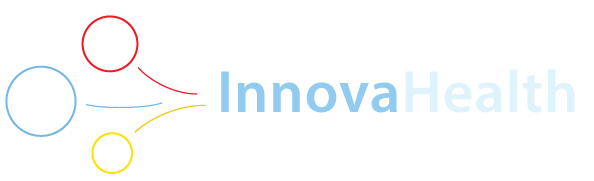
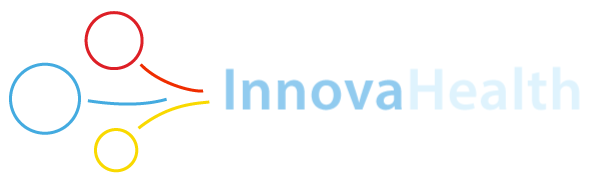
updated slides

Changed region(s): [[0.0, 0.0552, 1.0, 0.7735], [0.1515, 0.6906, 0.2424, 0.9669]]

diff --git a/app/assets/stylesheets/cims.scss b/app/assets/stylesheets/cims.scss
@@ -421,10 +421,6 @@ img:hover {
   filter: alpha(opacity=90);
 }
 
-svg:not(:root) {
-  overflow: visible;
-}
-
 figure {
   position: relative;
   margin: 0;
@@ -2535,7 +2531,9 @@ CV / News
     font-size: 2rem
   }
 }
-
+.activity .testimony{
+  img{ max-width: 17rem }
+}
 @media (min-width: 768px) {
   .activity p {
     float: left;
@@ -3641,13 +3639,15 @@ Solution: stackoverflow.com/questions/34250282/flexbox-safari-bug-flex-wrap
 
 
 .logo{
-  max-width: 155px;
+  max-width: 188px;
   margin: -1px 0;
 }
 
 .logo1{
-  max-width: 205px;
-  margin: -11px 0;
+  max-width: 248px;
+  margin: -8px auto 0;
+  text-align: left;
+  display: block
 }
 header{
   opacity:1!important
@@ -3807,13 +3807,14 @@ ul.steps.flexblock ul li{
 
 #canvas1 {
   @media(max-width:768px){
-   margin-left: -3.25rem;
-   min-width: 6.5rem;
+    margin-left: -3.25rem;
+    min-width: 6.5rem;
  }
 }
 
 .inline-canvas2{ width:590px; height:400px; margin-bottom:3rem  }
 .inline-canvas{  width:270px; height:400px; }
+
 
 #pieChart14{
   margin-left: -65px;
@@ -3832,11 +3833,17 @@ ul.steps.flexblock ul li{
   fill-opacity: 0.6;
 }
 
+.svgMap{
+  display: block;
+  margin:auto
+}
+
 #regionMap, #phaseMap{
   display: block;
-  margin:-55px auto -88px;
-  max-width: 90%;
-  padding: 0 2px;
+  margin-top: -55px;
+  margin-bottom: -88px;
+  text-align:center;
+  padding: 0;
   path {
     stroke: white;
   }
@@ -4129,25 +4136,25 @@ ul.steps.flexblock ul li{
     pointer-events: auto!important
 }
 .land.eight{
-  fill: #1E8BC3
+  fill: #62abff
 }
 .land.seven{
-  fill: #1E824C
+  fill: #85bdff
 }
 .land.six{
-  fill: #26C281
+  fill: #6296f1
 }
 .land.five{
-  fill: #00B16A
+  fill: #678ae6
 }
 .land.four{
-  fill: #0a733b;
+  fill: #6f96ff;
 }
 .land.three{
-  fill: #8eb5e2;
+  fill: #8cc2ff;
 }
 .land.two{
-  fill: #59ABE3
+  fill: #6296f1
 }
 .land.one{
   fill: #8cc2ff
@@ -4156,9 +4163,6 @@ ul.steps.flexblock ul li{
   opacity: 0.36!important
 }
 
-#phaseMap{
-  position: relative
-}
 
 #tooltip, #tooltip2 {
   padding: 15px;
@@ -4374,7 +4378,24 @@ $mq-lg: 62em;
 }
 
 .bg-nurse{
-  background: url(/assets/cim/glass-18047436193dda087a7ad1bf9c0aee3d9e9f2058f25419e048b86f857b6dcfe8.png) no-repeat;
+  background: url(/assets/cim/glass.png) no-repeat;
   background-size: cover;
   color: white;
+}
+
+.bg-asia{
+  background: url(/assets/cim/asia.jpg) no-repeat;
+  background-size: cover;
+  background-position-y: -47rem;
+  color: white;  
+  @media (max-width: 768px){
+    background-position-y: -53rem
+  }
+}
+
+.bg-patents{
+  background: url(/assets/cim/patnts.jpg) no-repeat;
+  background-size: cover;
+  color: white;
+  background-position-y: -7rem;
 }
